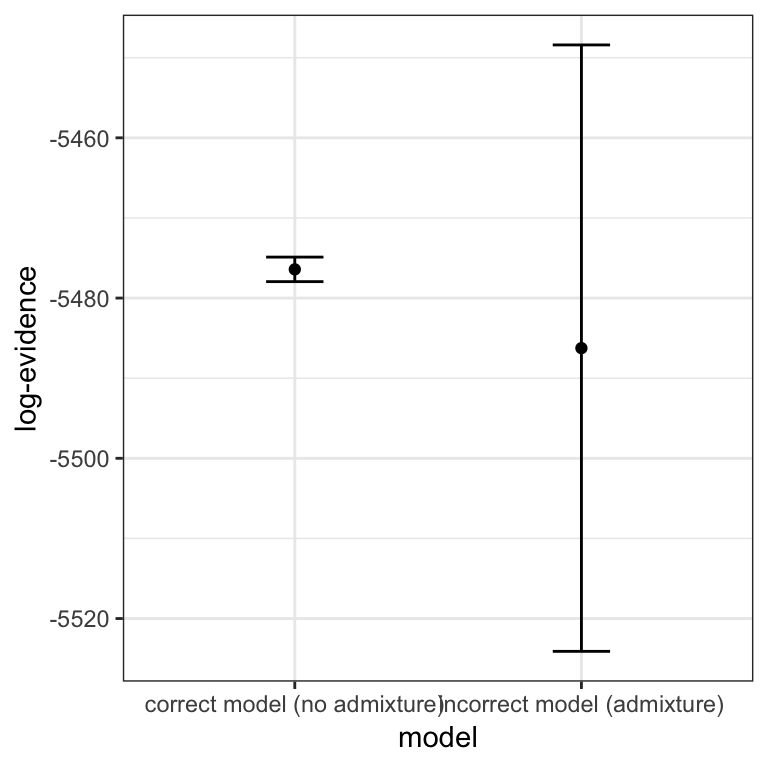
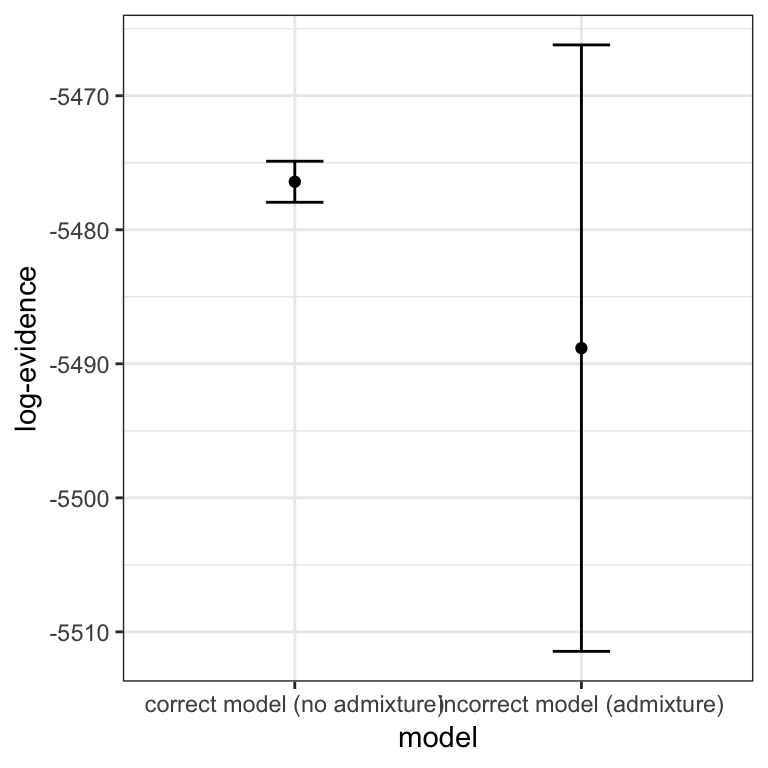
increased iterations in basic tutorial vignette

diff --git a/docs/articles/basic_tutorial.html b/docs/articles/basic_tutorial.html
@@ -166,7 +166,7 @@ myproj &lt;-<span class="st"> </span><span class="kw"><a href="../reference/bind
 <p>Now we are ready to run a basic MCMC. We will start by exploring values of K from 1 to 5, using 1000 burn-in iterations and 1000 sampling iterations. By default the MCMC has <code>auto_converge</code> turned on, meaning it will test for convergence every <code>convergence_test</code> iterations and will exit if convergence is reached (<code>convergence_test = burnin/10</code> by default). Hence, it is generally a good idea to set <code>burnin</code> to be higher than expected, as the MCMC will adjust this number down if needed. The number of sampling iterations can also be tuned. Our aim when choosing the number of sampling iterations should be to obtain enough samples that our posterior estimates are accurate to an acceptable tolerance level, but not so many that we waste time running the MCMC for long periods past this point. We will look into this parameter again once the MCMC has completed. The most unfamiliar parameter for most users will be the number of “rungs”. <em>rmaverick</em> runs multiple MCMC chains simultaneously, each at a different rung on a “temperature ladder”. The cold chain is our ordinary MCMC chain, and the hot chains serve two purposes: 1) they improve MCMC mixing, 2) they are central to the GTI method of estimating the evidence for different models. Finally, for the sake of this document we will run with <code>pb_markdown = TRUE</code> to avoid printing large amounts of output, but you should run without this argument.</p>
 <div class="sourceCode"><pre class="sourceCode r"><code class="sourceCode r">myproj &lt;-<span class="st"> </span><span class="kw"><a href="../reference/run_mcmc.html">run_mcmc</a></span>(myproj, <span class="dt">K =</span> <span class="dv">1</span>:<span class="dv">5</span>, <span class="dt">burnin =</span> <span class="fl">1e3</span>, <span class="dt">samples =</span> <span class="fl">1e3</span>, <span class="dt">rungs =</span> <span class="dv">10</span>, <span class="dt">pb_markdown =</span>  <span class="ot">TRUE</span>)</code></pre></div>
 <pre><code>## Calculating exact solution for K = 1
-##    completed in 0.00196741 seconds
+##    completed in 0.00207509 seconds
 ## 
 ## Running MCMC for K = 2
 ## Burn-in phase
@@ -178,7 +178,7 @@ myproj &lt;-<span class="st"> </span><span class="kw"><a href="../reference/bind
 ## 
   |                                                                       
   |=================================================================| 100%
-##    completed in 0.871458 seconds
+##    completed in 0.825215 seconds
 ## 
 ## Running MCMC for K = 3
 ## Burn-in phase
@@ -190,7 +190,7 @@ myproj &lt;-<span class="st"> </span><span class="kw"><a href="../reference/bind
 ## 
   |                                                                       
   |=================================================================| 100%
-##    completed in 1.12795 seconds
+##    completed in 1.08424 seconds
 ## 
 ## Running MCMC for K = 4
 ## Burn-in phase
@@ -202,7 +202,7 @@ myproj &lt;-<span class="st"> </span><span class="kw"><a href="../reference/bind
 ## 
   |                                                                       
   |=================================================================| 100%
-##    completed in 1.39293 seconds
+##    completed in 1.37709 seconds
 ## 
 ## Running MCMC for K = 5
 ## Burn-in phase
@@ -214,7 +214,7 @@ myproj &lt;-<span class="st"> </span><span class="kw"><a href="../reference/bind
 ## 
   |                                                                       
   |=================================================================| 100%
-##    completed in 1.92562 seconds
+##    completed in 1.89738 seconds
 ## 
 ## Processing results</code></pre>
 <p>Notice that the solution for K=1 is almost instantaneous, as no MCMC is required in this case. All other values of K converged within the specified burn-in period. If this was not the case, for example if one value of K had failed to converge, then we could use the same <code><a href="../reference/run_mcmc.html">run_mcmc()</a></code> function to re-run the MCMC for just a single value of K and with a longer maximum burn-in. This will overwrite the existing output for the specified value of K, but will leave all other values untouched:</p>
@@ -229,7 +229,7 @@ myproj &lt;-<span class="st"> </span><span class="kw"><a href="../reference/bind
 ## 
   |                                                                       
   |=================================================================| 100%
-##    completed in 0.86933 seconds
+##    completed in 0.79641 seconds
 ## 
 ## Processing results</code></pre>
 </div>
@@ -283,57 +283,57 @@ myproj</code></pre></div>
 ##    lambda = 1</code></pre>
 <p>The admixture model tends to take considerably longer to run than the no-admixture model, and mixes more poorly. This is because the MCMC now has to consider the population assignment of each gene copy separately, and also has additional parameters to estimate. For this reason we suggest that <strong>if there is no prior biological reason to expect admixture between populations then consider running the simpler non-admixture model only</strong>.</p>
 <p>We run the MCMC the same way as before, this time anticipating that we might need a greater number of burn-in and sampling iterations. Again, this should be run without the <code>pb_markdown = TRUE</code> argument ordinarily.</p>
-<div class="sourceCode"><pre class="sourceCode r"><code class="sourceCode r">myproj &lt;-<span class="st"> </span><span class="kw"><a href="../reference/run_mcmc.html">run_mcmc</a></span>(myproj, <span class="dt">K =</span> <span class="dv">1</span>:<span class="dv">5</span>, <span class="dt">burnin =</span> <span class="fl">1e2</span>, <span class="dt">converge_test =</span> <span class="dv">100</span>, <span class="dt">samples =</span> <span class="fl">2e1</span>, <span class="dt">rungs =</span> <span class="dv">10</span>, <span class="dt">pb_markdown =</span> <span class="ot">TRUE</span>)</code></pre></div>
+<div class="sourceCode"><pre class="sourceCode r"><code class="sourceCode r">myproj &lt;-<span class="st"> </span><span class="kw"><a href="../reference/run_mcmc.html">run_mcmc</a></span>(myproj, <span class="dt">K =</span> <span class="dv">1</span>:<span class="dv">5</span>, <span class="dt">burnin =</span> <span class="fl">1e4</span>, <span class="dt">converge_test =</span> <span class="dv">100</span>, <span class="dt">samples =</span> <span class="fl">2e3</span>, <span class="dt">rungs =</span> <span class="dv">10</span>, <span class="dt">pb_markdown =</span> <span class="ot">TRUE</span>)</code></pre></div>
 <pre><code>## Calculating exact solution for K = 1
-##    completed in 0.0833565 seconds
+##    completed in 0.0764347 seconds
 ## 
 ## Running MCMC for K = 2
 ## Burn-in phase
 ## 
   |                                                                       
   |=================================================================| 100%
-##    Warning: convergence still not reached within 100 iterations
+##    converged within 200 iterations
 ## Sampling phase
 ## 
   |                                                                       
   |=================================================================| 100%
-##    completed in 1.78871 seconds
+##    completed in 27.5743 seconds
 ## 
 ## Running MCMC for K = 3
 ## Burn-in phase
 ## 
   |                                                                       
   |=================================================================| 100%
-##    Warning: convergence still not reached within 100 iterations
+##    converged within 100 iterations
 ## Sampling phase
 ## 
   |                                                                       
   |=================================================================| 100%
-##    completed in 1.94954 seconds
+##    completed in 31.1715 seconds
 ## 
 ## Running MCMC for K = 4
 ## Burn-in phase
 ## 
   |                                                                       
   |=================================================================| 100%
-##    Warning: convergence still not reached within 100 iterations
+##    converged within 200 iterations
 ## Sampling phase
 ## 
   |                                                                       
   |=================================================================| 100%
-##    completed in 2.17404 seconds
+##    completed in 33.6482 seconds
 ## 
 ## Running MCMC for K = 5
 ## Burn-in phase
 ## 
   |                                                                       
   |=================================================================| 100%
-##    Warning: convergence still not reached within 100 iterations
+##    converged within 2200 iterations
 ## Sampling phase
 ## 
   |                                                                       
   |=================================================================| 100%
-##    completed in 2.4373 seconds
+##    completed in 43.6701 seconds
 ## 
 ## Processing results</code></pre>
 <p>As before, we need to check the behaviour of our MCMC. Under the admixture model we have the additional parameter <em>alpha</em> to check. We can produce a summary plot of this parameter as follows:</p>

diff --git a/docs/articles/parallel.html b/docs/articles/parallel.html
@@ -87,25 +87,26 @@
 
     
     
-<p>This vignette demonstrates how to run <em>rmaverick</em> in parallel, making use of multiple cores if they are available.</p>
-<p>Install and load the “parallel” package</p>
+<p>This vignette demonstrates how to run <em>rmaverick</em> in parallel, making use of multiple cores if they are available. Each explored value of K can be run on a separate core, often leading to a significant speedup.</p>
+<p>First, we must install and load the “parallel” package:</p>
 <div class="sourceCode"><pre class="sourceCode r"><code class="sourceCode r"><span class="kw">install.packages</span>(<span class="st">"parallel"</span>)</code></pre></div>
 <div class="sourceCode"><pre class="sourceCode r"><code class="sourceCode r"><span class="kw">library</span>(parallel)</code></pre></div>
-<p>Simulate some data etc.</p>
+<p>We will need some data to work with, so lets simulate some data and load it into a new project. We will also create a simple parameter set to work with:</p>
 <div class="sourceCode"><pre class="sourceCode r"><code class="sourceCode r"><span class="kw">set.seed</span>(<span class="dv">1</span>)
 mysim &lt;-<span class="st"> </span><span class="kw"><a href="../reference/sim_data.html">sim_data</a></span>(<span class="dt">n =</span> <span class="dv">50</span>, <span class="dt">loci =</span> <span class="dv">10</span>, <span class="dt">K =</span> <span class="dv">3</span>, <span class="dt">admix_on =</span> <span class="ot">FALSE</span>)
 
 myproj &lt;-<span class="st"> </span><span class="kw"><a href="../reference/mavproject.html">mavproject</a></span>()
 myproj &lt;-<span class="st"> </span><span class="kw"><a href="../reference/bind_data.html">bind_data</a></span>(myproj, mysim$data, <span class="dt">ID_col =</span> <span class="dv">1</span>, <span class="dt">pop_col =</span> <span class="dv">2</span>, <span class="dt">ploidy_col =</span> <span class="dv">3</span>)
 myproj &lt;-<span class="st"> </span><span class="kw"><a href="../reference/new_set.html">new_set</a></span>(myproj, <span class="dt">admix_on =</span> <span class="ot">FALSE</span>)</code></pre></div>
-<p>Detect cores</p>
+<p>Before running anything in parallel we need to know how many cores our machine has. You may know this number already, but if you don’t then the parallel package has a handy function for detecting the number of cores for you:</p>
 <div class="sourceCode"><pre class="sourceCode r"><code class="sourceCode r">cores &lt;-<span class="st"> </span><span class="kw"><a href="http://www.rdocumentation.org/packages/parallel/topics/detectCores">detectCores</a></span>()</code></pre></div>
-<p>Make a cluster</p>
+<p>We then create a cluster object, which creates multiple copies of R running in parallel over different cores. Here we are using all available cores, but if you want to hold some back for other intensive tasks then simply use a smaller number of cores when specifying this cluster.</p>
 <div class="sourceCode"><pre class="sourceCode r"><code class="sourceCode r">cl &lt;-<span class="st"> </span><span class="kw"><a href="http://www.rdocumentation.org/packages/parallel/topics/makeCluster">makeCluster</a></span>(cores)</code></pre></div>
-<p>Pass in the cluster</p>
+<p>We can then run the MCMC using the usual <code><a href="../reference/run_mcmc.html">run_mcmc()</a></code> function, this time passing in the cluster as an argument. Note that output is supressed when running in parallel:</p>
 <div class="sourceCode"><pre class="sourceCode r"><code class="sourceCode r">myproj &lt;-<span class="st"> </span><span class="kw"><a href="../reference/run_mcmc.html">run_mcmc</a></span>(myproj, <span class="dt">K =</span> <span class="dv">1</span>:<span class="dv">5</span>, <span class="dt">burnin =</span> <span class="fl">1e3</span>, <span class="dt">samples =</span> <span class="fl">1e3</span>, <span class="dt">rungs =</span> <span class="dv">10</span>, <span class="dt">cluster =</span> cl)</code></pre></div>
-<p>Terminate the cluster</p>
+<p>Finally, it is good practice to shut down the workers once we are finished:</p>
 <div class="sourceCode"><pre class="sourceCode r"><code class="sourceCode r"><span class="kw"><a href="http://www.rdocumentation.org/packages/parallel/topics/makeCluster">stopCluster</a></span>(cl)</code></pre></div>
+<p>You should find that this is considerably faster than running the MCMC without passing in the cluster object.</p>
   </div>
 
   <div class="col-md-3 hidden-xs hidden-sm" id="sidebar">
